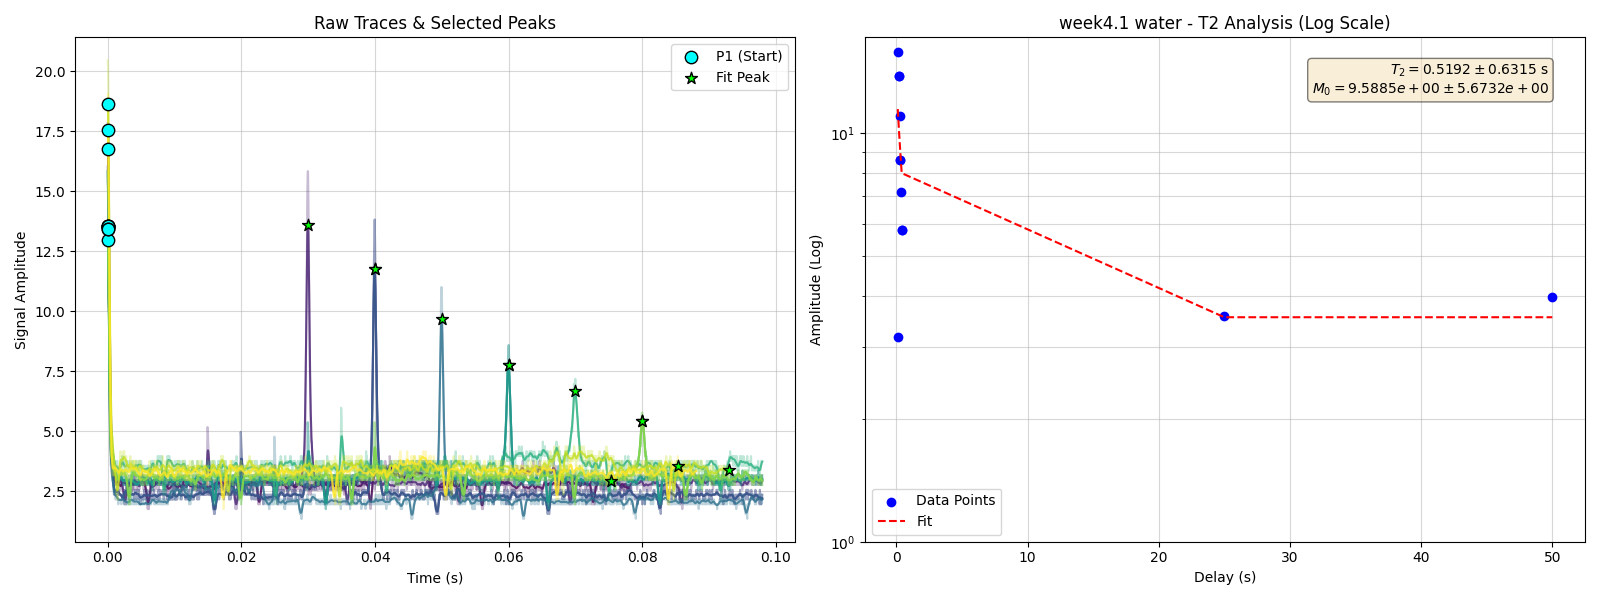
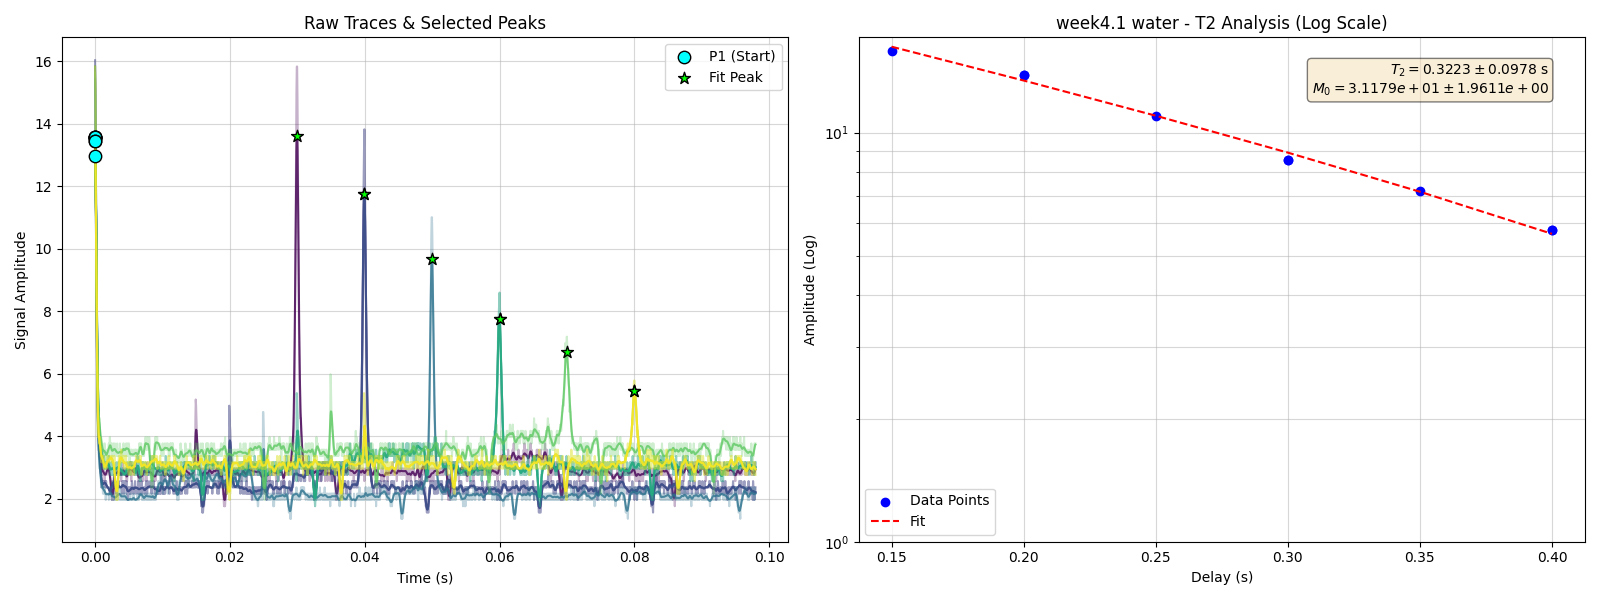
Better peaks algorightm

diff --git a/src/nmr_analysis/cli/commands.py b/src/nmr_analysis/cli/commands.py
@@ -613,7 +613,7 @@ def montage(
 
         # Data
         time = ctx.data.time
-        signal = np.abs(ctx.data.signal)
+        signal = np.real(ctx.data.signal)  # Use Signed Signal (User Request)
 
         # Fit
         fit_curve = ctx.result.fit_curve
@@ -823,9 +823,9 @@ def _run_analysis(
                     fit_idx = peak_info.get("fit_idx", 0)
                     sig = processed_data.signal
                     if fit_idx < len(sig):
-                        amp = np.abs(sig[fit_idx])
+                        amp = np.real(sig[fit_idx])
                     else:
-                        amp = np.max(np.abs(sig))
+                        amp = np.max(np.real(sig))
 
                     # Use ACTUAL detected delay from signal (tau_fitted) for the fit
                     # This ensures the X-axis matches the "Fit Peak" locations
@@ -2300,8 +2300,10 @@ def plot_stacked_traces(
         ax_raw = axes[i, 1]  # Column 2: Full Raw
         color = cmap(norm(i))
 
-        proc_signal = np.abs(processed_data.signal)
-        full_signal = np.abs(data_full.signal)
+        # User Request: "It still seems to take the absoulte value"
+        # Use Real (Signed) signal for plotting
+        proc_signal = np.real(processed_data.signal)
+        full_signal = np.real(data_full.signal)
 
         # --- COLUMN 1: Processed Data with Peaks ---
         ax_proc.plot(
@@ -2448,7 +2450,8 @@ def plot_analysis_summary(
             continue
 
         color = cmap(norm(i))
-        signal = np.abs(data.signal)
+        # User Request: "It still seems to take the absoulte value"
+        signal = np.real(data.signal)
         # Raw trace (faint)
         ax_traces.plot(data.time, signal, color=color, alpha=0.3)
 
@@ -2541,15 +2544,36 @@ def plot_analysis_summary(
         if num_traces <= 5:
             ax_right.legend(loc="best", fontsize=8)
     else:
-        # Original log-scale fit plot
         # Plot data points
         ax_right.scatter(x, y, c="blue", label="Data Points", zorder=3)
 
-        # Fit Curve
+        # Fit Curve - use dense grid for J-modulated to show oscillations
         if result.fit_curve is not None:
-            sorted_pairs = sorted(zip(x, result.fit_curve))
-            sx, sy = zip(*sorted_pairs)
-            ax_right.plot(sx, sy, label="Fit", color="red", linestyle="--", zorder=6)
+            if "J" in result.params:
+                # J-modulated: generate dense curve to show oscillations
+                from nmr_analysis.analysis.models import j_modulated_t2
+
+                t_dense = np.linspace(np.min(x), np.max(x), 500)
+                M0 = result.params["M0"]
+                T2 = result.params["T2"]
+                J = result.params["J"]
+                offset = result.params.get("offset", 0.0)
+                fit_dense = j_modulated_t2(t_dense, M0, T2, J, offset)
+                ax_right.plot(
+                    t_dense,
+                    fit_dense,
+                    label="Fit",
+                    color="red",
+                    linestyle="--",
+                    zorder=6,
+                )
+            else:
+                # Standard fit: use original sparse points
+                sorted_pairs = sorted(zip(x, result.fit_curve))
+                sx, sy = zip(*sorted_pairs)
+                ax_right.plot(
+                    sx, sy, label="Fit", color="red", linestyle="--", zorder=6
+                )
 
         # Add fit annotations with errors
         if "T1" in result.params:  # T1 Case
@@ -2617,26 +2641,26 @@ def plot_analysis_summary(
 
 
 if __name__ == "__main__":
-    # for week in (
-    #     "4.1",
-    #     "4.2",
-    #     "5.1",
-    #     "5.2",
-    # ):
-    #     week_path = Path(rf"H:\My Drive\Lab C\NMR\week{week}")
-    #     if not week_path.exists():
-    #         console.print(f"[yellow]Skipping week {week}: directory not found[/yellow]")
-    #         continue
-        # analyze(
-        #     week_path,
-        #     experiment=None,
-        #     channel="Channel 1",
-        #     plot=True,
-        #     save_plots=True,
-        #     output_dir=Path(__file__).parents[3] / "output" / week,
-        #     interactive=False,
-        #     flat=True,
-        # )
+    for week in (
+        "4.1",
+        "4.2",
+        "5.1",
+        "5.2",
+    ):
+        week_path = Path(rf"H:\My Drive\Lab C\NMR\week{week}")
+        if not week_path.exists():
+            console.print(f"[yellow]Skipping week {week}: directory not found[/yellow]")
+            continue
+        analyze(
+            week_path,
+            experiment=None,
+            channel="Channel 1",
+            plot=True,
+            save_plots=True,
+            output_dir=Path(__file__).parents[3] / "output" / week,
+            interactive=False,
+            flat=True,
+        )
     montage(
         Path(rf"H:\My Drive\Lab C\NMR"),
         output_file=Path(__file__).parents[3] / "output" / "montage",

diff --git a/src/nmr_analysis/analysis/processing.py b/src/nmr_analysis/analysis/processing.py
@@ -679,7 +679,9 @@ def find_peaks_t1_t2(
     # --- T2 LOGIC (from NMRMINE t2_analysis.py) ---
     else:
         # Default to T2 behavior
-        detection_signal = np.abs(signal)
+        # User Request: "Is the absoulte value... It harms the peak finding" -> Use SIGNED signal
+        # detection_signal = np.abs(signal)
+        detection_signal = signal
         # T2 repo doesn't explicitly mention DC offset, just "max_idx = argmax... slice... find_peaks"
 
         max_val = np.max(detection_signal)
@@ -786,47 +788,43 @@ def find_peaks_t1_t2(
                 # Let's simplify: Maximize y_cand relative to expected decay.
                 # Effectively, we maximize T2.
 
-                # Safe Log:
-                with np.errstate(divide="ignore", invalid="ignore"):
-                    # ratio = y0 / y. If y >= y0, ratio <= 1 -> log <= 0.
-                    # If y <= 0, we set T2 = 0 manually.
+                # User Request (Update): "remove smoothing before finding peaks"
+                # We revert to using raw detection_signal values.
 
-                    # We utilize the fact that minimizing (ln(y0) - ln(y)) maximizes T2.
-                    # denom = ln(y0/y).
-                    # If y >= y0, denom <= 0.
-                    # If y < y0, denom > 0.
+                # Use raw P1 amplitude
+                y0_raw = detection_signal[p1_idx]
+                if y0_raw <= 0:
+                    y0_raw = 1e-9
 
-                    # Let's compute manually to handle edge cases cleanly
-                    best_idx = valid_indices[0]
-                    max_t2 = -1.0
+                best_idx = valid_indices[0] if len(valid_indices) > 0 else 0
+                max_t2 = -1.0
 
-                    # Optimization: Filter out y <= 0 first (noise floor)
-                    # (Unless everything is <= 0?)
+                for i in range(len(valid_indices)):
+                    idx = valid_indices[i]
+                    y = y_cands[i]  # Use Raw Value (Signed)
+                    t = t_cands[i]
 
-                    for i in range(len(valid_indices)):
-                        idx = valid_indices[i]
-                        y = y_cands[i]
-                        t = t_cands[i]
+                    # Threshold Check (User: "above 5") - apply to raw signal
+                    # If this filters too much noise, good.
+                    if y <= 5.0:
+                        continue
 
-                        if y <= 0:
-                            calc_t2 = 0.0
-                        elif y >= y0:
-                            # Higher than P1? Infinite T2.
-                            # Differentiate by Amplitude?
-                            # If multiple points are > P1, the one with HIGHEST Amplitude is "most outer".
-                            # We map this to a very large number + amplitude buffer
-                            calc_t2 = 1e9 + y
+                    if y >= y0_raw:
+                        # Higher than P1? Infinite T2.
+                        # Differentiate by Amplitude?
+                        # Maximize Outer Envelope -> Highest Amplitude
+                        calc_t2 = 1e9 + y
+                    else:
+                        # Normal Decay
+                        denom = np.log(y0_raw) - np.log(y)
+                        if denom == 0:
+                            calc_t2 = 1e9
                         else:
-                            # Normal Decay
-                            denom = np.log(y0) - np.log(y)
-                            if denom == 0:
-                                calc_t2 = 1e9
-                            else:
-                                calc_t2 = (t - t0) / denom
+                            calc_t2 = (t - t0) / denom
 
-                        if calc_t2 > max_t2:
-                            max_t2 = calc_t2
-                            best_idx = idx
+                    if calc_t2 > max_t2:
+                        max_t2 = calc_t2
+                        best_idx = idx
 
                     fit_idx = best_idx
             else:
@@ -880,7 +878,8 @@ def preprocess_data(
         signal_corr = signal - dc_offset
         # 2. Use Absolute Signal for Start Detection
         # "max_idx = np.argmax(abs_signal)"
-        detection_signal = np.abs(signal_corr)
+        # User Request: "It harms the peak finding" -> Use Signed Signal to find positive peaks
+        detection_signal = signal_corr
         start_idx = np.argmax(detection_signal)
 
         # We perform the slicing on the ORIGINAL time/signal (but signal might need DC corr?)

diff --git a/src/nmr_analysis/analysis/fitting.py b/src/nmr_analysis/analysis/fitting.py
@@ -114,28 +114,43 @@ class Fitter:
         delays: np.ndarray, amplitudes: np.ndarray, guess_J: float = 7.0
     ) -> Tuple[dict, np.ndarray, np.ndarray, float, dict]:
         """
-        Fit J-Modulated T2 Spin Echo decay.
+        Fit J-Modulated T2 Spin Echo decay using a two-stage approach.
+
+        Stage 1: Fit simple exponential decay to get T2/M0 estimates.
+        Stage 2: Use Stage 1 results as initial guesses for full J-modulated fit.
+
         Model: | M0 * exp(-t/T2) * cos(pi*J*t) | + offset
-        Recommended guess_J: 7.0 Hz (typical for H-H coupling)
         """
         from nmr_analysis.analysis.models import j_modulated_t2
 
+        # ===== Stage 1: Fit Exponential Decay Envelope =====
+        # This gives robust T2 and M0 estimates ignoring modulation
         M0_guess = np.max(amplitudes) if len(amplitudes) > 0 else 1.0
         T2_guess = np.mean(delays) if len(delays) > 0 else 0.5
-        offset_guess = 0.0
-
-        # p0: [M0, T2, J, offset]
-        p0 = [M0_guess, T2_guess, guess_J, offset_guess]
+        offset_guess = np.min(amplitudes) if len(amplitudes) > 0 else 0.0
 
         try:
-            # Bounds: M0>0, T2>0, J>0, offset can be whatever (usually >0)
+            popt_stage1, _ = curve_fit(
+                t2_decay_model,
+                delays,
+                amplitudes,
+                p0=[M0_guess, T2_guess, offset_guess],
+                bounds=([0, 0, -np.inf], [np.inf, np.inf, np.inf]),
+                maxfev=5000,
+            )
+            M0_stage1, T2_stage1, offset_stage1 = popt_stage1
+        except (RuntimeError, ValueError):
+            # Fallback to initial guesses if Stage 1 fails
+            M0_stage1, T2_stage1, offset_stage1 = M0_guess, T2_guess, offset_guess
+
+        # ===== Stage 2: Fit Full J-Modulated Model =====
+        # Use Stage 1 results as initial guesses
+        p0 = [M0_stage1, T2_stage1, guess_J, offset_stage1]
+
+        try:
+            # Bounds: M0>0, T2>0, J>0, offset can be anything
             bounds_min = [0, 0, 0, -np.inf]
-            bounds_max = [
-                np.inf,
-                np.inf,
-                20.0,
-                np.inf,
-            ]  # Limit J < 20Hz for typical H-H?
+            bounds_max = [np.inf, np.inf, 20.0, np.inf]  # Limit J < 20Hz
 
             popt, pcov = curve_fit(
                 j_modulated_t2,
@@ -143,6 +158,7 @@ class Fitter:
                 amplitudes,
                 p0=p0,
                 bounds=(bounds_min, bounds_max),
+                maxfev=10000,
             )
             M0, T2, J, offset = popt
             fit_curve = j_modulated_t2(delays, *popt)
